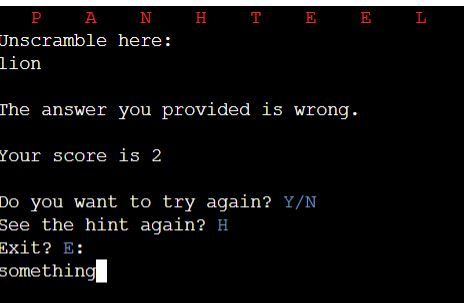
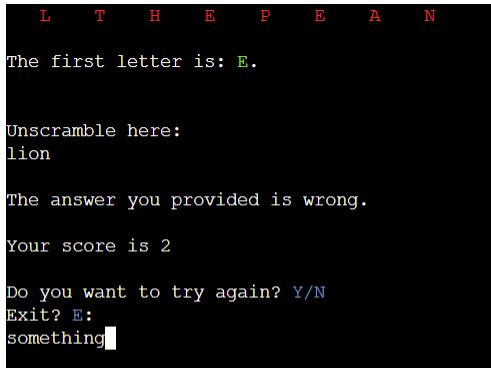
Update images to testing after removing time sleep

Changed region(s): [[0.0, 0.0, 1.0, 1.0], [0.4828, 0.1485, 0.5129, 0.2079]]

diff --git a/TESTING.md b/TESTING.md
@@ -67,8 +67,8 @@ Defensive programming was manually tested with the below user acceptance testing
 | | If the player types "E" | Tested the feature by typing "E" | The feature behaved as expected, and exited the game | Test concluded and passed | ![screenshot](documentation/feature0011.jpg) |
 | | If the player does not type "Y", "N", "H", "E" | Tested the feature by typing something else | The feature behaved as expected, and throwed an error that the answer is invalid. | Test concluded and passed | ![screenshot](documentation/feature00115.jpg) ![screenshot](documentation/feature0011501.jpg)|
 | | If the player does not type anything | Tested the feature by not typing anything | The feature behaved as expected, and showed "Please provide an answer. | Test concluded and passed | ![screenshot](documentation/blankchoice.jpg)
-| If the player's answer is still wrong after the first time around and after getting a hint he gets again 4 options "Y", "N", "H", "E" only this time the option offering a hint becomes an option to be reminded of the hint.
-| | If the player types "H" | Tested the feature by typing "H" | The feature behaved as expected, and reminded the player of the hint. | Test concluded and passed | ![screenshot](documentation/feature0012.jpg)![screenshot](documentation/feature001201.jpg)  |
+| If the player's answer is still wrong after the first time around and after getting a hint he gets again 3 options "Y", "N", and "E" and is reminded of the hint.
+| | If the player still gets it wrong | Tested the feature by typing a wrong answer | The feature behaved as expected, and reminded the player of the hint. | Test concluded and passed | ![screenshot](documentation/feature0012.jpg) |
 | Play again| | | | | |
 | | After played all the words the feature is expected to check if the player wants to play again.| Tested the feature by typing "Y" | The feature behaved as expected, and it restarted the game | Test concluded and passed | ![screenshot](documentation/feature0014.jpg) ![screenshot](documentation/feature001401.jpg)|
 | | After played all the words the feature is expected to check if the player wants to play again.| Tested the feature by typing "N" | The feature behaved as expected, and exited the game | Test concluded and passed | ![screenshot](documentation/feature0015.jpg) ![screenshot](documentation/feature001501.jpg)|
